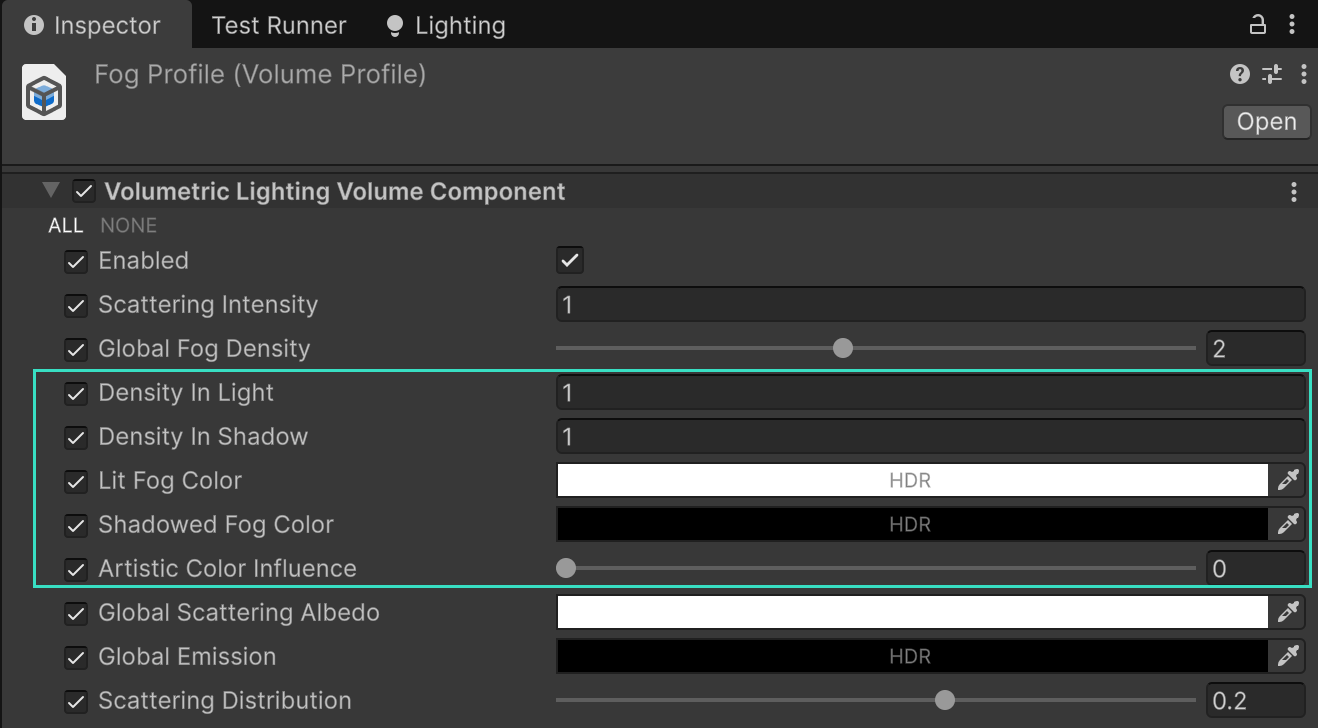
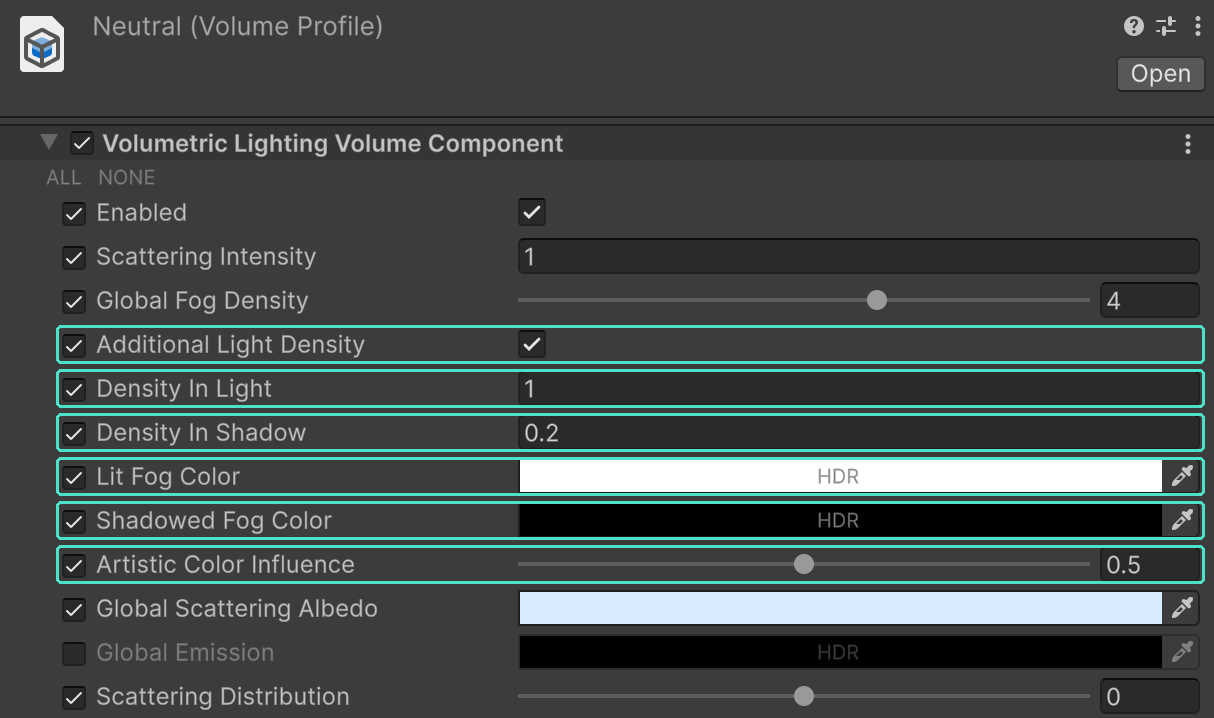
Update generated Unity package documentation

diff --git a/public/docs/nebula/index.html b/public/docs/nebula/index.html
@@ -163,7 +163,7 @@ pre > code.sourceCode > span > a:first-child::before { text-decoration: underlin
 <p><img src="/docs/nebula/images/samples-list.png" class="img-fluid" style="width:460pt" alt="Nebula Package Manager details with Samples and all four sample names and import/update buttons outlined."></p>
 <p>Figure 6</p>
 </div>
-<p>Open <code>Assets/Samples/Nebula/1.0.1/Nebula Demo/Nebula Demo.unity</code> to start with the four-part demo. Each imported sample includes its own PDF. Importing a sample does not add Nebula to your renderer.</p>
+<p>Open <code>Assets/Samples/Nebula/1.2.0/Nebula Demo/Nebula Demo.unity</code> to start with the four-part demo. Each imported sample includes its own PDF. Importing a sample does not add Nebula to your renderer.</p>
 <div style="page-break-after: always;"></div>
 </section>
 <section id="appearance" class="level1" data-section="Manual">
@@ -292,14 +292,16 @@ pre > code.sourceCode > span > a:first-child::before { text-decoration: underlin
 </section>
 <section id="lit-shadow" class="level1" data-section="Manual">
 <h1 data-section="Manual">Separate lit and shadowed fog</h1>
-<p>In the Volume Profile, use <strong>Density In Light</strong> and <strong>Density In Shadow</strong> to change thickness according to the main light’s shadow and cookie visibility. Both default to <code>1</code>. Try <code>1</code> and <code>0.2</code> respectively for clearer shadows.</p>
+<p>In the Volume Profile, use <strong>Density In Light</strong> and <strong>Density In Shadow</strong> to change thickness according to light visibility. Both default to <code>1</code>. Try <code>1</code> and <code>0.2</code> respectively for clearer shadows. Enable both checkboxes beside <strong>Additional Light Density</strong> to include point and spot lights; otherwise, only the main light selects the density.</p>
 <div class="doc-figure">
-<p><img src="/docs/nebula/images/lit-shadow.png" class="img-fluid" style="width:500pt" alt="Volume Profile highlighting the two density multipliers, two HDR fog colors, and color influence."></p>
+<p><img src="/docs/nebula/images/lit-shadow.png" class="img-fluid" style="width:500pt" alt="Volume Profile highlighting Additional Light Density, the two density multipliers, two HDR fog colors, and color influence."></p>
 <p>Figure 17</p>
 </div>
 <p><code>0</code> removes density in that region; values above <code>1</code> thicken it. These multipliers affect global and local extinction, scattering, and emission together. They do not classify regions by light brightness.</p>
 <p>For an authored palette, set <strong>Lit Fog Color</strong> and <strong>Shadowed Fog Color</strong>, then raise <strong>Artistic Color Influence</strong>. <code>0</code> keeps incident lighting; <code>1</code> replaces all incident fog lighting, including additional-light contributions and directional phase lighting, with the selected HDR color. Albedo and density still shape the result. Emission is unchanged by these color controls.</p>
-<p>Both features need a participating main light. An absent, excluded, or camera-filtered main light leaves the usual density and lighting unchanged. Additional lights do not select the lit/shadowed region.</p>
+<p><strong>Additional Light Density:</strong> Off by default. Includes point, spot, and additional directional lights. Ranges, spot cones, shadows, and cookies determine coverage independently of brightness. Overlaps use the strongest coverage; outside all lights, <strong>Density In Shadow</strong> applies.</p>
+<p>It reuses fog-lighting samples but adds shadow and cookie sampling for temporal density validation when the two multipliers differ. Both at <code>1</code> preserve density without that extra sampling. Additional lights must also be enabled in the Nebula Renderer Feature.</p>
+<p>With this mode off, density controls still need a participating main light. The artistic color controls always use only the main light; an absent, excluded, or camera-filtered main light leaves those colors inactive.</p>
 <p>Open the <strong>Lit and Shadow Density</strong> or <strong>Lit and Shadow Colors</strong> sample for editable comparisons. Soft shadows, shadow-distance fading, and cookie coverage make gradual transitions.</p>
 <div style="page-break-after: always;"></div>
 </section>
@@ -467,7 +469,7 @@ pre > code.sourceCode > span > a:first-child::before { text-decoration: underlin
 </section>
 <section id="compatibility" class="level1" data-section="Compatibility">
 <h1 data-section="Compatibility">Choose a supported target</h1>
-<p>Nebula 1.0.1 is a RenderGraph renderer feature for the <strong>Universal Renderer</strong> in URP. Its package metadata declares Unity <strong>6000.0.5f1</strong> and URP <strong>17.0.4</strong>. This guide’s Editor captures and play checks use Unity <strong>6000.0.82f1</strong>, URP <strong>17.0.4</strong>, and Metal. They do not qualify other Editor versions or physical devices.</p>
+<p>Nebula 1.2.0 is a RenderGraph renderer feature for the <strong>Universal Renderer</strong> in URP. Its package metadata declares Unity <strong>6000.0.5f1</strong> and URP <strong>17.0.4</strong>. This guide’s Editor captures and play checks use Unity <strong>6000.0.82f1</strong>, URP <strong>17.0.4</strong>, and Metal. The additional-light density checks use the same Unity and URP versions with Direct3D 11. These checks do not qualify other Editor versions or physical devices.</p>
 <section id="pipeline-and-cameras" class="level2">
 <h2 class="anchored" data-anchor-id="pipeline-and-cameras">Pipeline and cameras</h2>
 <p>URP Compatibility Mode bypasses the required RenderGraph path. Built-in and HDRP are not supported. Base Game cameras and Scene views can render Nebula; overlay, reflection/preview camera types, and XR are skipped. The package’s feature targets the Universal Renderer, not the 2D Renderer.</p>

diff --git a/public/docs/nebula/Samples/Lit and Shadow Density/index.html b/public/docs/nebula/Samples/Lit and Shadow Density/index.html
@@ -83,7 +83,7 @@ ul.task-list li input[type="checkbox"] {
 <p>Figure 1</p>
 </div>
 <p>Compare visibility through the lit shafts and the spaces between them. The controls multiply the composed fog density, including extinction, scattering, and emission. They do not increase or decrease the light itself.</p>
-<p>A participating main light is required. Additional lights can illuminate the resulting medium, but do not decide whether a region uses the light or shadow multiplier.</p>
+<p>These sample profiles use the default main-light density mode, which requires a participating main light. Nebula also offers <strong>Additional Light Density</strong> for point and spot lights; see “Separate lit and shadowed fog” in the main manual.</p>
 <div style="page-break-after: always;"></div>
 </section>
 <section id="edit-a-comparison-profile" class="level1" data-section="Sample Guide">
